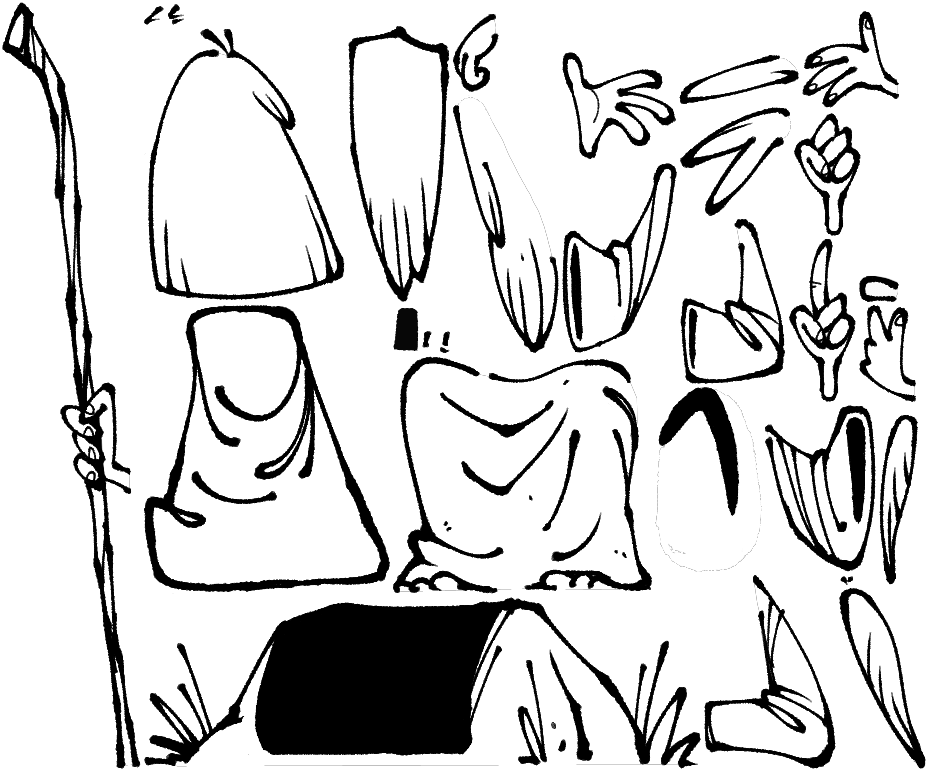
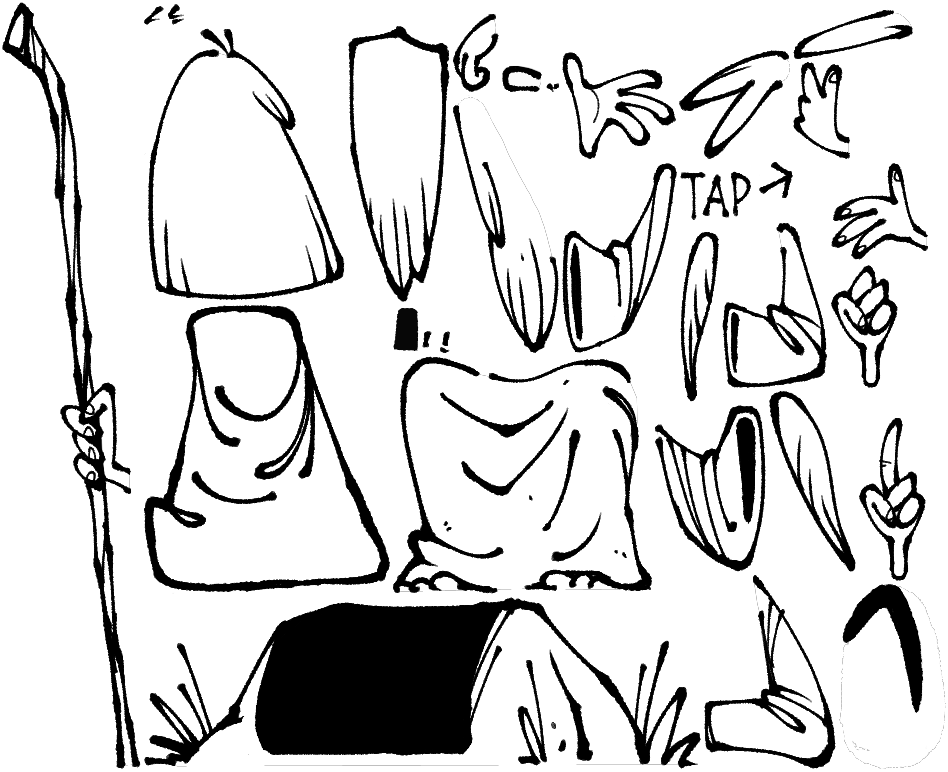
refactor, add tap tip

diff --git a/src/js/spine.js b/src/js/spine.js
@@ -1,6 +1,6 @@
 import { tweened } from 'svelte/motion';
 import { backOut } from 'svelte/easing';
-import { spine } from './spine-webgl.js';
+import { spine } from '../libs/spine-webgl.js';
 
 let atlasFile = 'spine/wise-ass.atlas';
 let skelFile = 'spine/wise-ass.skel';
@@ -184,10 +184,16 @@ const animations = {
   headFront: { track: 3, name: 'head-front', loop: false, mixBlend: 'replace', entry: null },
   fly: { track: 4, name: 'fly', loop: true, mixBlend: 'replace', entry: null },
   flyWings: { track: 5, name: 'fly-wings', loop: true, mixBlend: 'replace', entry: null },
+  tap: { track: 6, name: 'tap', loop: true, mixBlend: 'replace', entry: null },
 };
 
 function setAnimation(animation) {
   animation.entry = animationState.setAnimation(animation.track, animation.name, animation.loop);
+  animation.entry.mixBlend = spine.MixBlend[animation.mixBlend];
+}
+
+function addAnimation(animation, delay = 0) {
+  animation.entry = animationState.addAnimation(animation.track, animation.name, animation.loop, delay);
   animation.entry.mixBlend = spine.MixBlend[animation.mixBlend];
 }
 
@@ -205,6 +211,7 @@ function setSmoothOutAnimation(animation, delay = 0, mixDuration = 0) {
 
 function clearAnimation(animation) {
   animationState.clearTrack(animation.track);
+  skeleton.setSlotsToSetupPose();
 }
 
 //----------------------------------------------------------------------------------------------------------------------
@@ -235,12 +242,15 @@ export function sleepAnimation() {
   clearAnimation(animations.talkMouth);
   setSmoothOutAnimation(animations.flyWings, 0, 4);
   setSmoothOutAnimation(animations.fly, 2, 4);
+  addAnimation(animations.tap, 4);
 }
 
 export function wakeAnimation() {
   setAnimation(animations.wake);
   setAnimation(animations.flyWings);
   setSmoothInAnimation(animations.fly, 0, 0.5);
+
+  clearAnimation(animations.tap);
 }
 
 export function talkAnimation() {

diff --git a/src/js/speech.js b/src/js/speech.js
@@ -1,4 +1,4 @@
-import { getRandomWikiQuote } from './wikiquote';
+import { getRandomWikiQuote } from './wikiquote.js';
 
 let ss;
 let ssu;
@@ -7,38 +7,48 @@ let voices = [];
 
 let pitch = 0.5;
 let rate = 0.8;
-let selectedVoiceIndex = 3;
+let voiceIndex = 0;
 
 export function init() {
+  if (typeof speechSynthesis !== 'undefined' && speechSynthesis.onvoiceschanged !== undefined) {
+    speechSynthesis.onvoiceschanged = getVoices;
+  } else return;
+
   ss = speechSynthesis;
   ssu = new SpeechSynthesisUtterance();
-
-  if (speechSynthesis.onvoiceschanged !== undefined) {
-    speechSynthesis.onvoiceschanged = getVoices;
-  }
 
   return ssu;
 }
 
-const getVoices = async () => {
+async function getVoices() {
   return new Promise((resolve) => {
     voices = speechSynthesis.getVoices();
     if (voices.length) {
+      voiceIndex = findVoiceIndex(voices);
       resolve(voices);
       return;
     }
-    speechSynthesis.onvoiceschanged = () => {
-      voices = speechSynthesis.getVoices();
-      resolve(voices);
-    };
   });
-};
+}
+
+function findVoiceIndex(voices) {
+  let index = voices.findIndex((voice) => voice.name === 'Google Deutsch'); // Chrome
+  if (index > -1) return index;
+
+  index = voices.findIndex((voice) => voice.name.startsWith('Microsoft Denise Online')); // Edge
+  if (index > -1) return index;
+
+  index = voices.findIndex((voice) => voice.name.startsWith('Microsoft Hazel')); // Opera, Firefox, Brave
+  if (index > -1) return index;
+
+  return 0;
+}
 
 //----------------------------------------------------------------------------------------------------------------------
 
 export function speak(text) {
   ss.cancel();
-  ssu.voice = voices[selectedVoiceIndex];
+  ssu.voice = voices[voiceIndex];
   ssu.volume = 1;
   ssu.rate = rate;
   ssu.pitch = pitch;

diff --git a/src/App.svelte b/src/App.svelte
@@ -1,10 +1,10 @@
 <script>
-  import service from './fsm.js';
-  import Spine from './Spine.svelte';
-  import Speech from './Speech.svelte';
-  import SpeechBubble from './SpeechBubble.svelte';
-  import StateMessage from './StateMessage.svelte';
-  import GithubButton from './GithubButton.svelte';
+  import service from './js/fsm.js';
+  import Spine from './components/Spine.svelte';
+  import Speech from './components/Speech.svelte';
+  import SpeechBubble from './components/SpeechBubble.svelte';
+  import StateMessage from './components/StateMessage.svelte';
+  import GithubButton from './components/GithubButton.svelte';
 
   const send = $service.send;
   $: currentState = $service.machine.current;
@@ -45,6 +45,9 @@
   <SpeechBubble text={writtenQuote} visible={isBubbleVisible} />
   <Spine {service} />
 </div>
+
 <StateMessage message={currentState} {error} />
+
 <GithubButton />
+
 <Speech {service} />

diff --git a/src/components/IdleDetector.svelte b/src/components/IdleDetector.svelte
@@ -1,0 +1,36 @@
+<script>
+  import { onMount } from 'svelte';
+  import { onDestroy } from 'svelte';
+  import debounce from '../libs/debounce.js';
+
+  export let timeToIdle = 5000;
+  export let isIdle = false;
+
+  let timeout;
+
+  onMount(() => {
+    setIdleTimeout();
+  });
+
+  function onActivity(e) {
+    isIdle = false;
+    setIdleTimeout();
+  }
+
+  const setIdleTimeout = debounce(
+    () => {
+      clearTimeout(timeout);
+      timeout = setTimeout(() => {
+        isIdle = true;
+      }, timeToIdle);
+    },
+    250,
+    false
+  );
+
+  onDestroy(() => {
+    clearTimeout(timeout);
+  });
+</script>
+
+<svelte:window on:pointermove={onActivity} on:keydown={onActivity} />

diff --git a/src/libs/debounce.js b/src/libs/debounce.js
@@ -1,0 +1,27 @@
+/*!
+ * just-debounce-it
+ * Copyright (c) 2016 angus croll The MIT License (MIT)
+ */
+
+export default function debounce(fn, wait, callFirst) {
+  var timeout;
+  return function () {
+    if (!wait) {
+      return fn.apply(this, arguments);
+    }
+    var context = this;
+    var args = arguments;
+    var callNow = callFirst && !timeout;
+    clearTimeout(timeout);
+    timeout = setTimeout(function () {
+      timeout = null;
+      if (!callNow) {
+        return fn.apply(context, args);
+      }
+    }, wait);
+
+    if (callNow) {
+      return fn.apply(this, arguments);
+    }
+  };
+}

diff --git a/src/js/wikiquote.js b/src/js/wikiquote.js
@@ -1,5 +1,5 @@
-// const api = 'https://en.wikiquote.org/w/api.php';
-const api = 'https://lazy-wise-ass.netlify.app/api';
+const api = 'https://en.wikiquote.org/w/api.php';
+// const api = 'https://lazy-wise-ass.netlify.app/api';
 
 export async function getRandomWikiQuote() {
   const pageId = await getRandomPageId();
@@ -20,8 +20,6 @@ async function getRandomPageId() {
     // mode: 'cors', // cors, no-cors, *cors, same-origin
   };
   url.search = new URLSearchParams(params).toString();
-
-  console.log(JSON.stringify(url));
 
   try {
     const response = await fetch(url);

diff --git a/src/js/fsm.js b/src/js/fsm.js
@@ -1,7 +1,7 @@
 import { createMachine, action, guard, immediate, invoke, state, transition, reduce } from 'robot3';
 import { useMachine } from 'svelte-robot-factory';
 
-import { getQuote, speak, getRandomResignText } from './speech';
+import { getQuote, speak, getRandomResignText } from './speech.js';
 import {
   init,
   loadAssets,

diff --git a/src/components/Speech.svelte b/src/components/Speech.svelte
@@ -1,6 +1,6 @@
 <script>
   import { onMount } from 'svelte';
-  import { init } from './speech';
+  import { init } from '../js/speech.js';
 
   export let service;
 
@@ -9,7 +9,7 @@
 
   onMount(() => {
     const ssu = init();
-    ssu.onend = onEnd;
+    if (ssu) ssu.onend = onEnd;
   });
 
   function onEnd(e) {

diff --git a/src/Main.svelte b/src/Main.svelte
@@ -1,5 +1,5 @@
 <script>
-  import LoadingIndicator from './LoadingIndicator.svelte';
+  import LoadingIndicator from './components/LoadingIndicator.svelte';
   const AppComponent = import('./App.svelte').then(({ default: C }) => C);
 </script>
 

diff --git a/src/components/Spine.svelte b/src/components/Spine.svelte
@@ -1,6 +1,6 @@
 <script>
   import { onMount } from 'svelte';
-  import { resize } from './spine.js';
+  import { resize } from '../js/spine.js';
 
   export let service;
 
